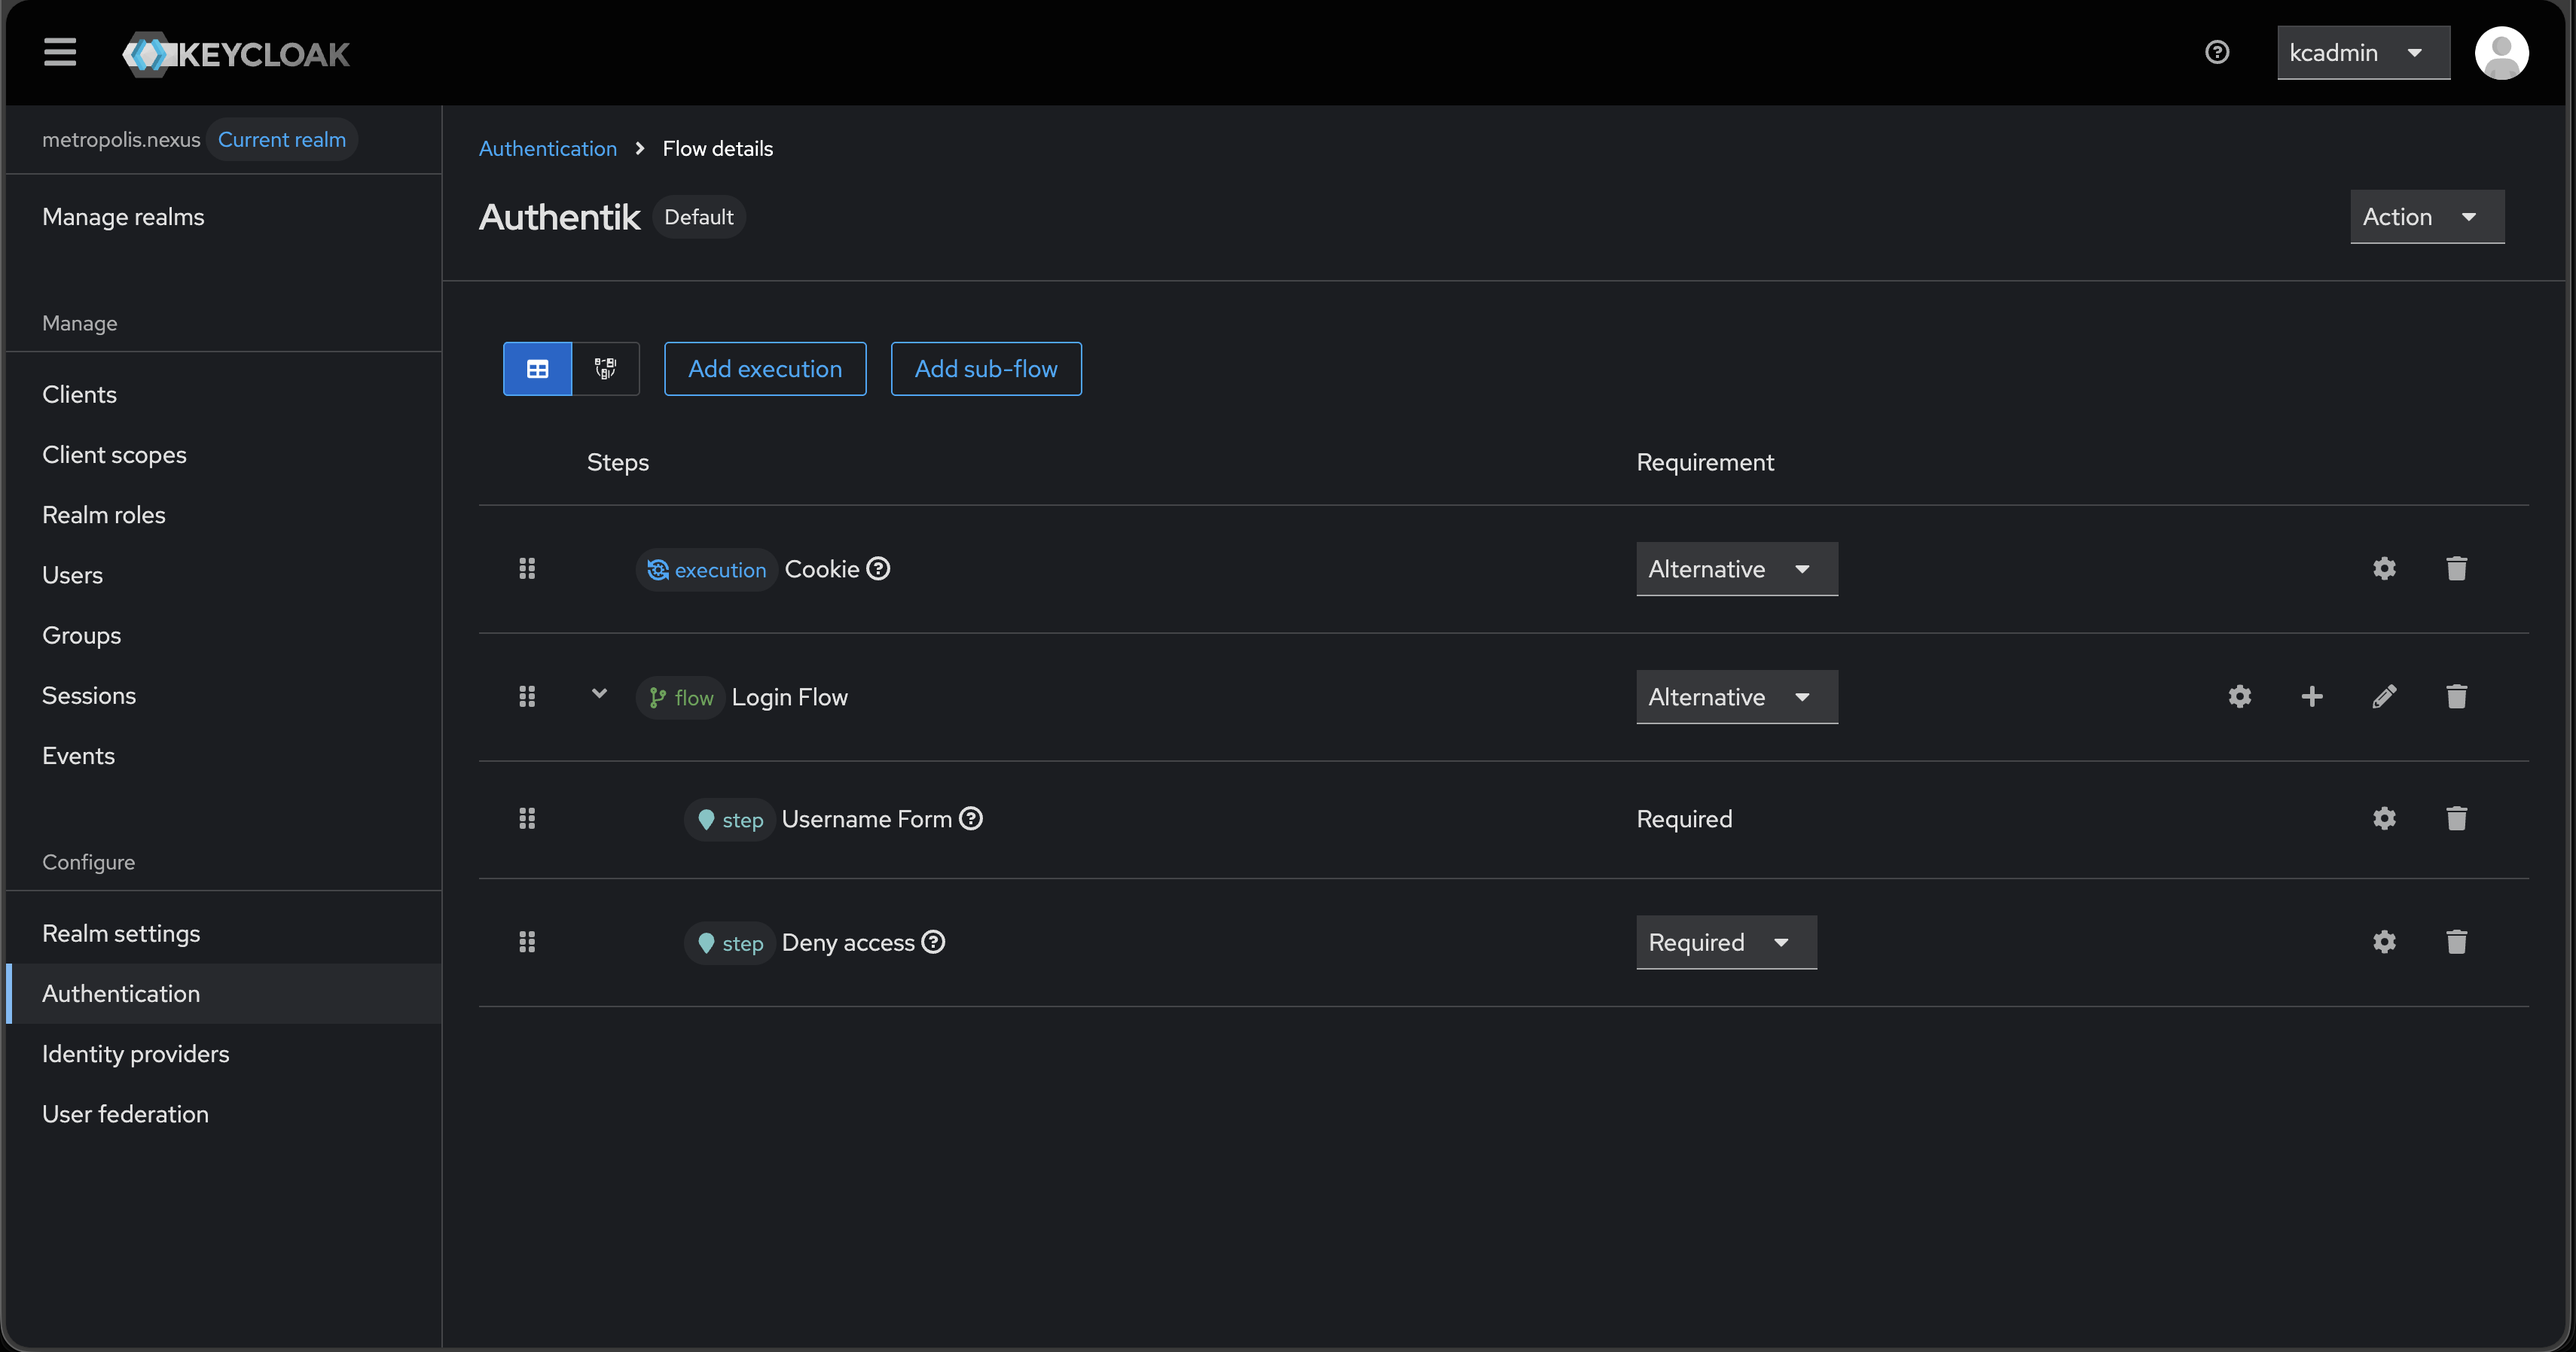
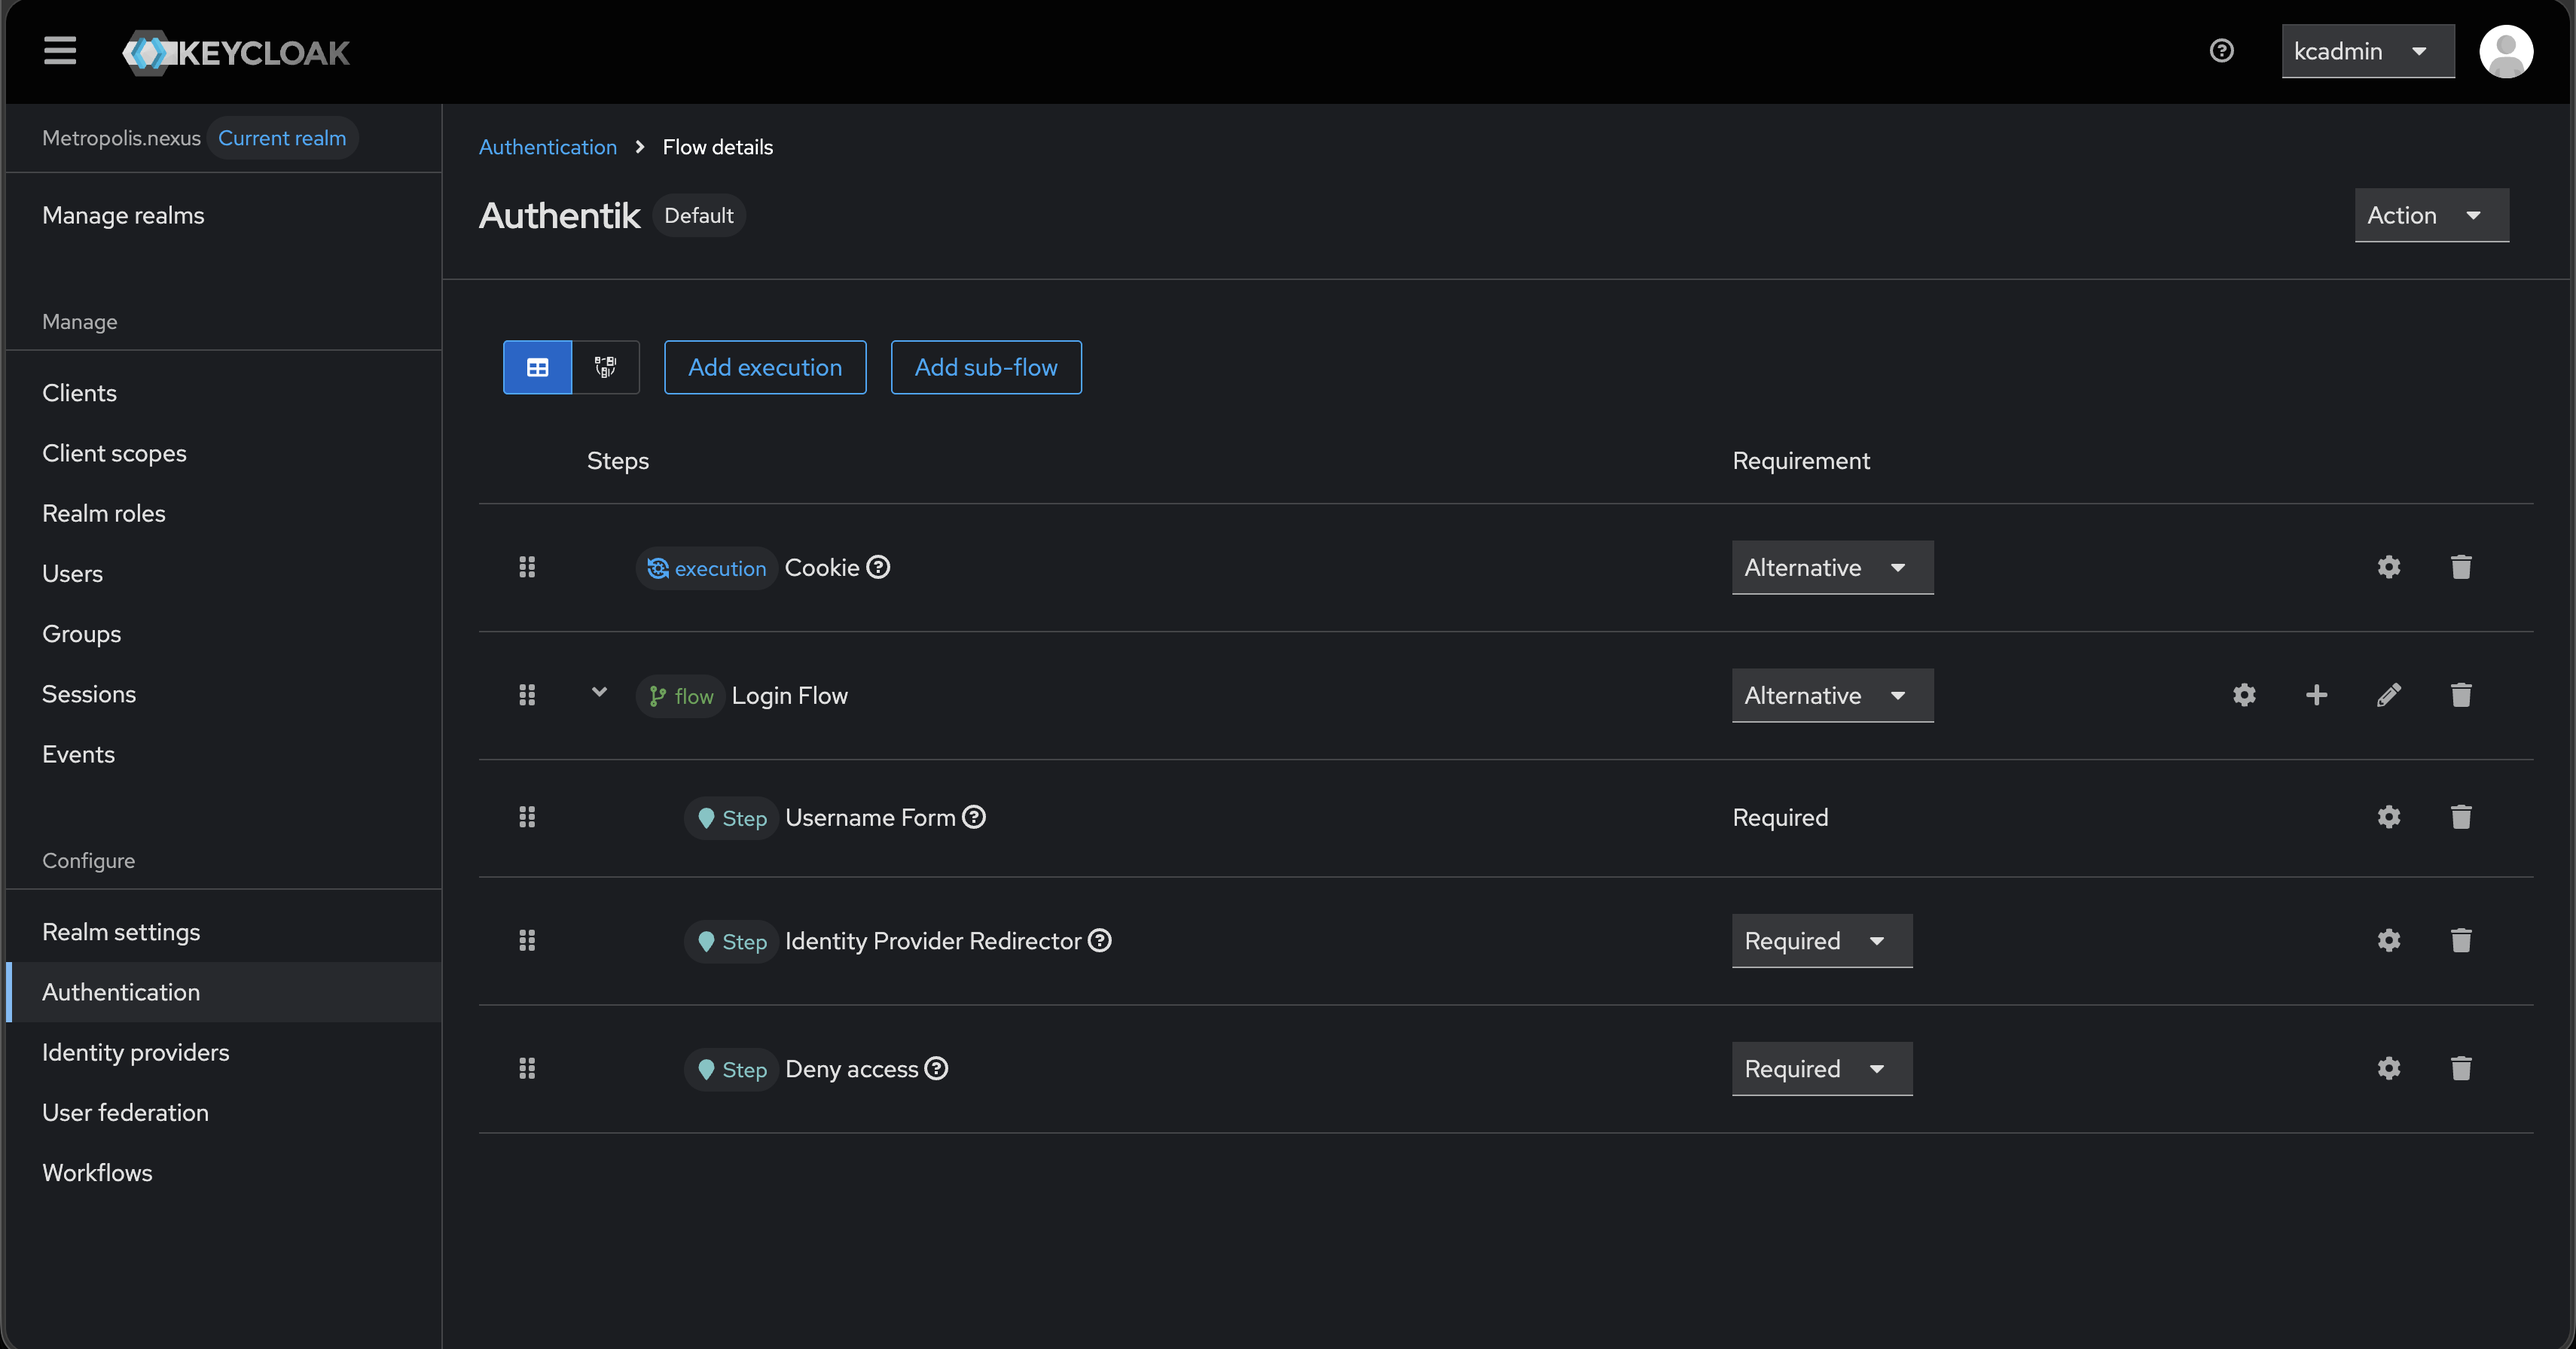
Fix Authentik Flow

diff --git a/README.md b/README.md
@@ -25,6 +25,12 @@ PermitRootLogin prohibit-password
 ### General
 - User-managed access -> On
 
+## Authentication
+
+### Required actions
+
+
+
 ### Login
 - Login with email -> Off
 
@@ -48,7 +54,7 @@ PermitRootLogin prohibit-password
 ## Authentication
 
 ### Flows
-- Create Authentik flow (Note that we are not using the Identity Provider Redirector here because the implementation is broken and will make it impossible to log out)
+- Create Authentik flow
 ![Authentik flow](Authentik-Flow.png)
 - Bind Authentik flow as the browser flow
 - Create the Block Registration flow (otherwise registration can still be triggered under certain condition)
